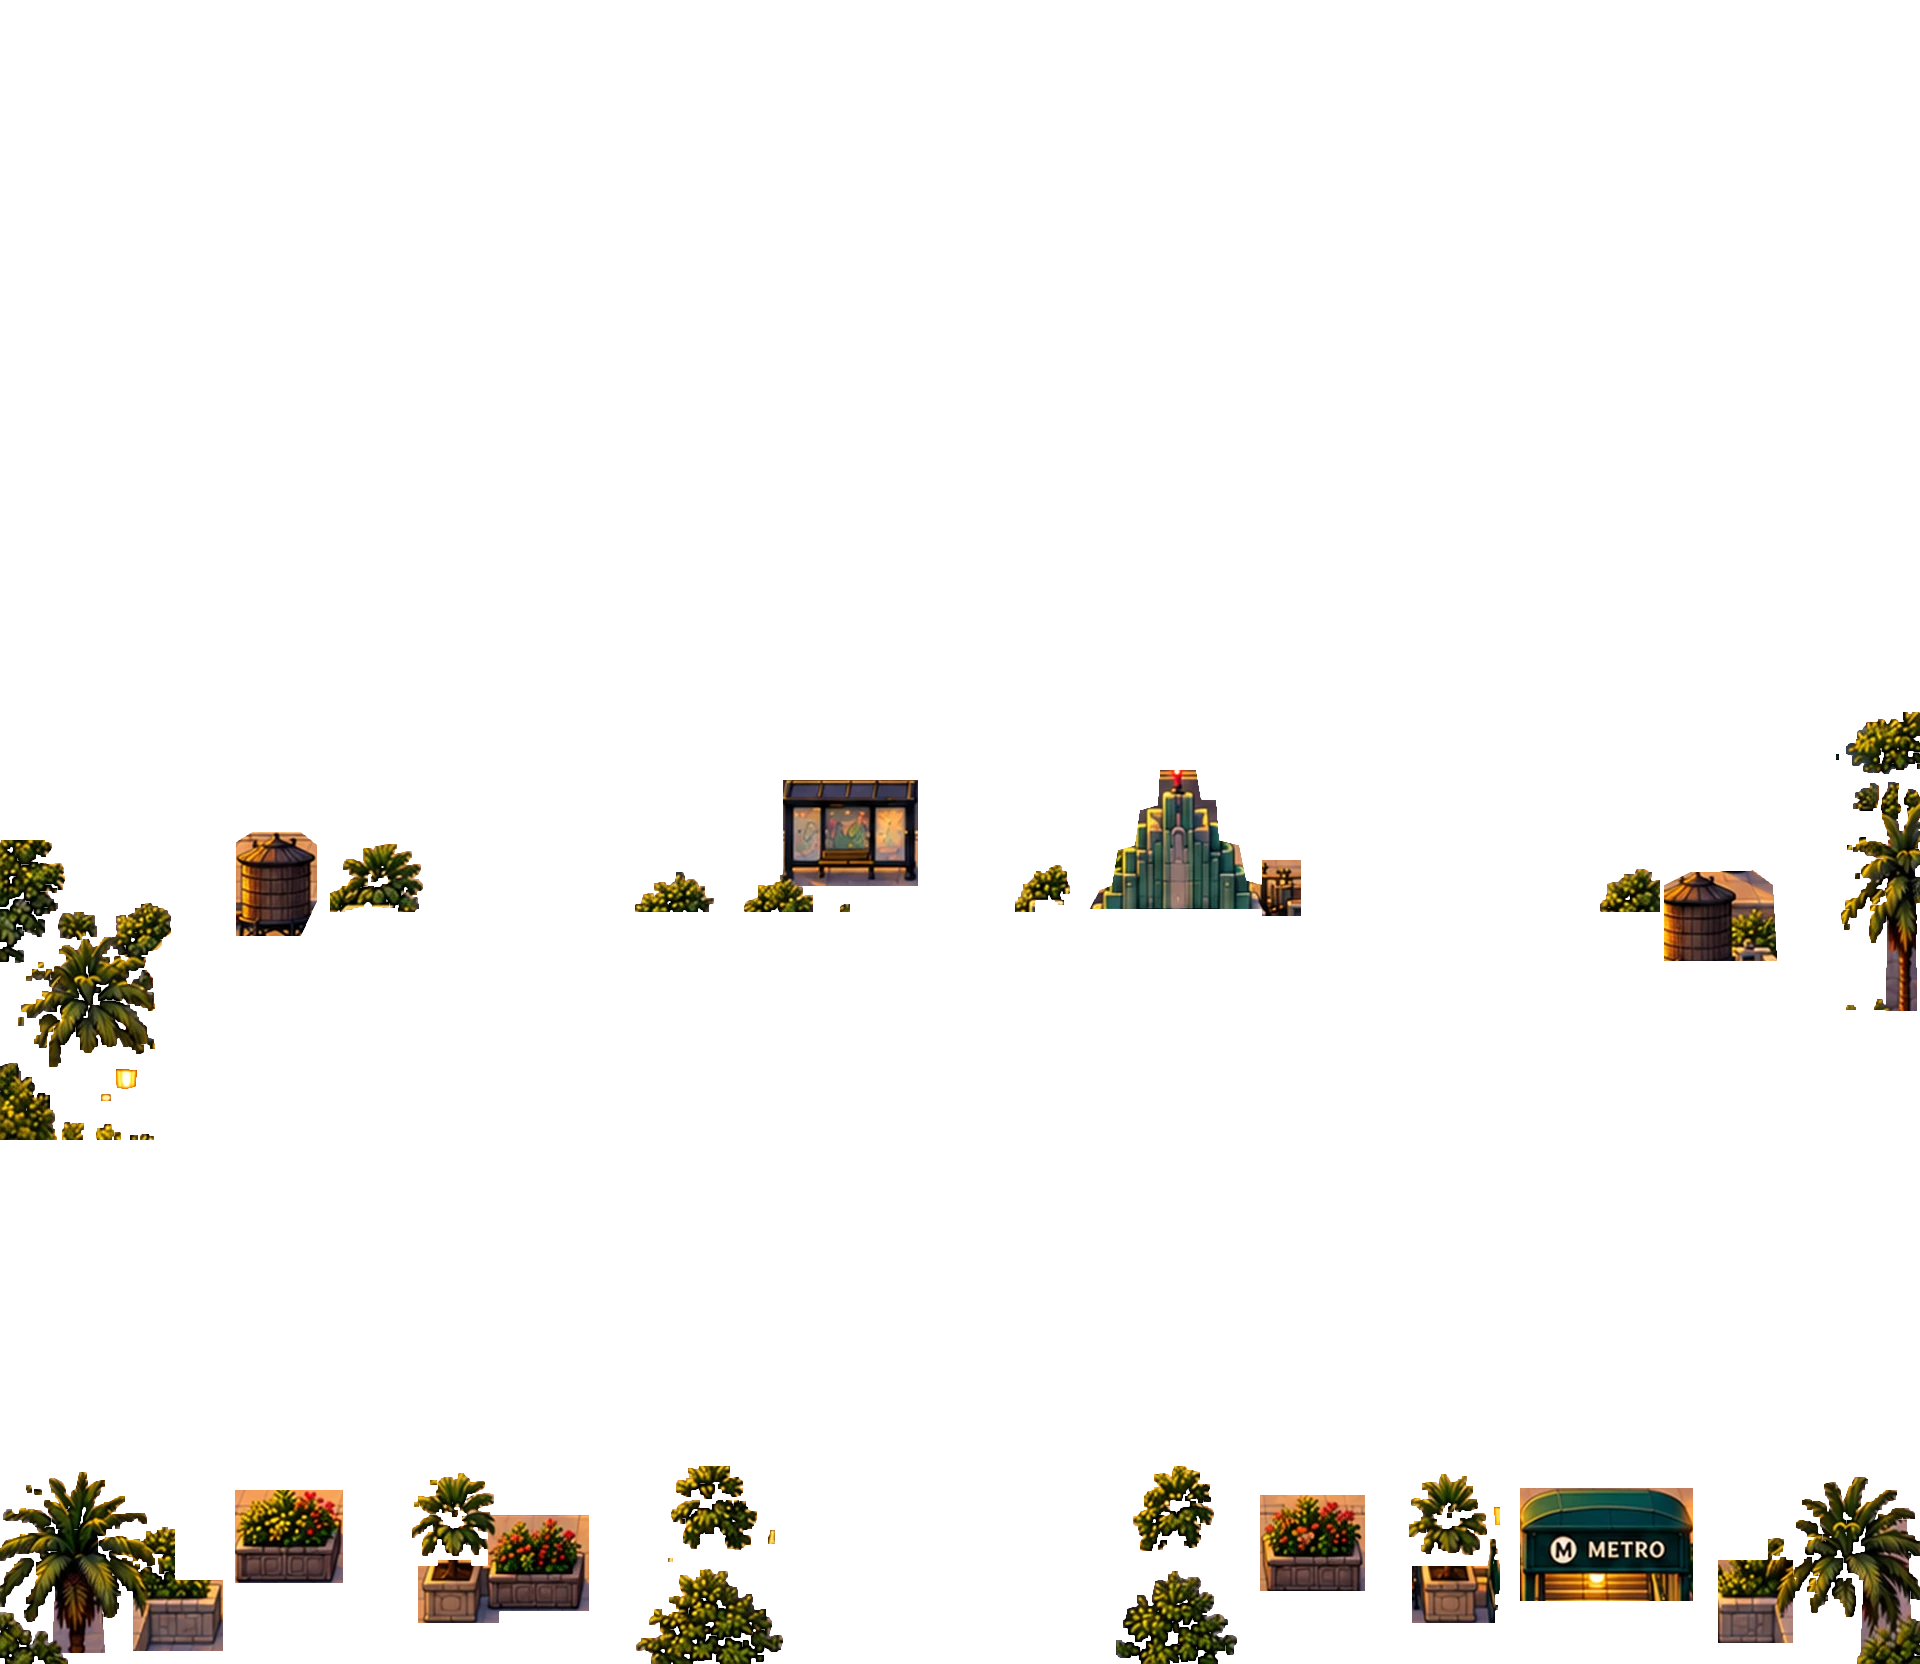
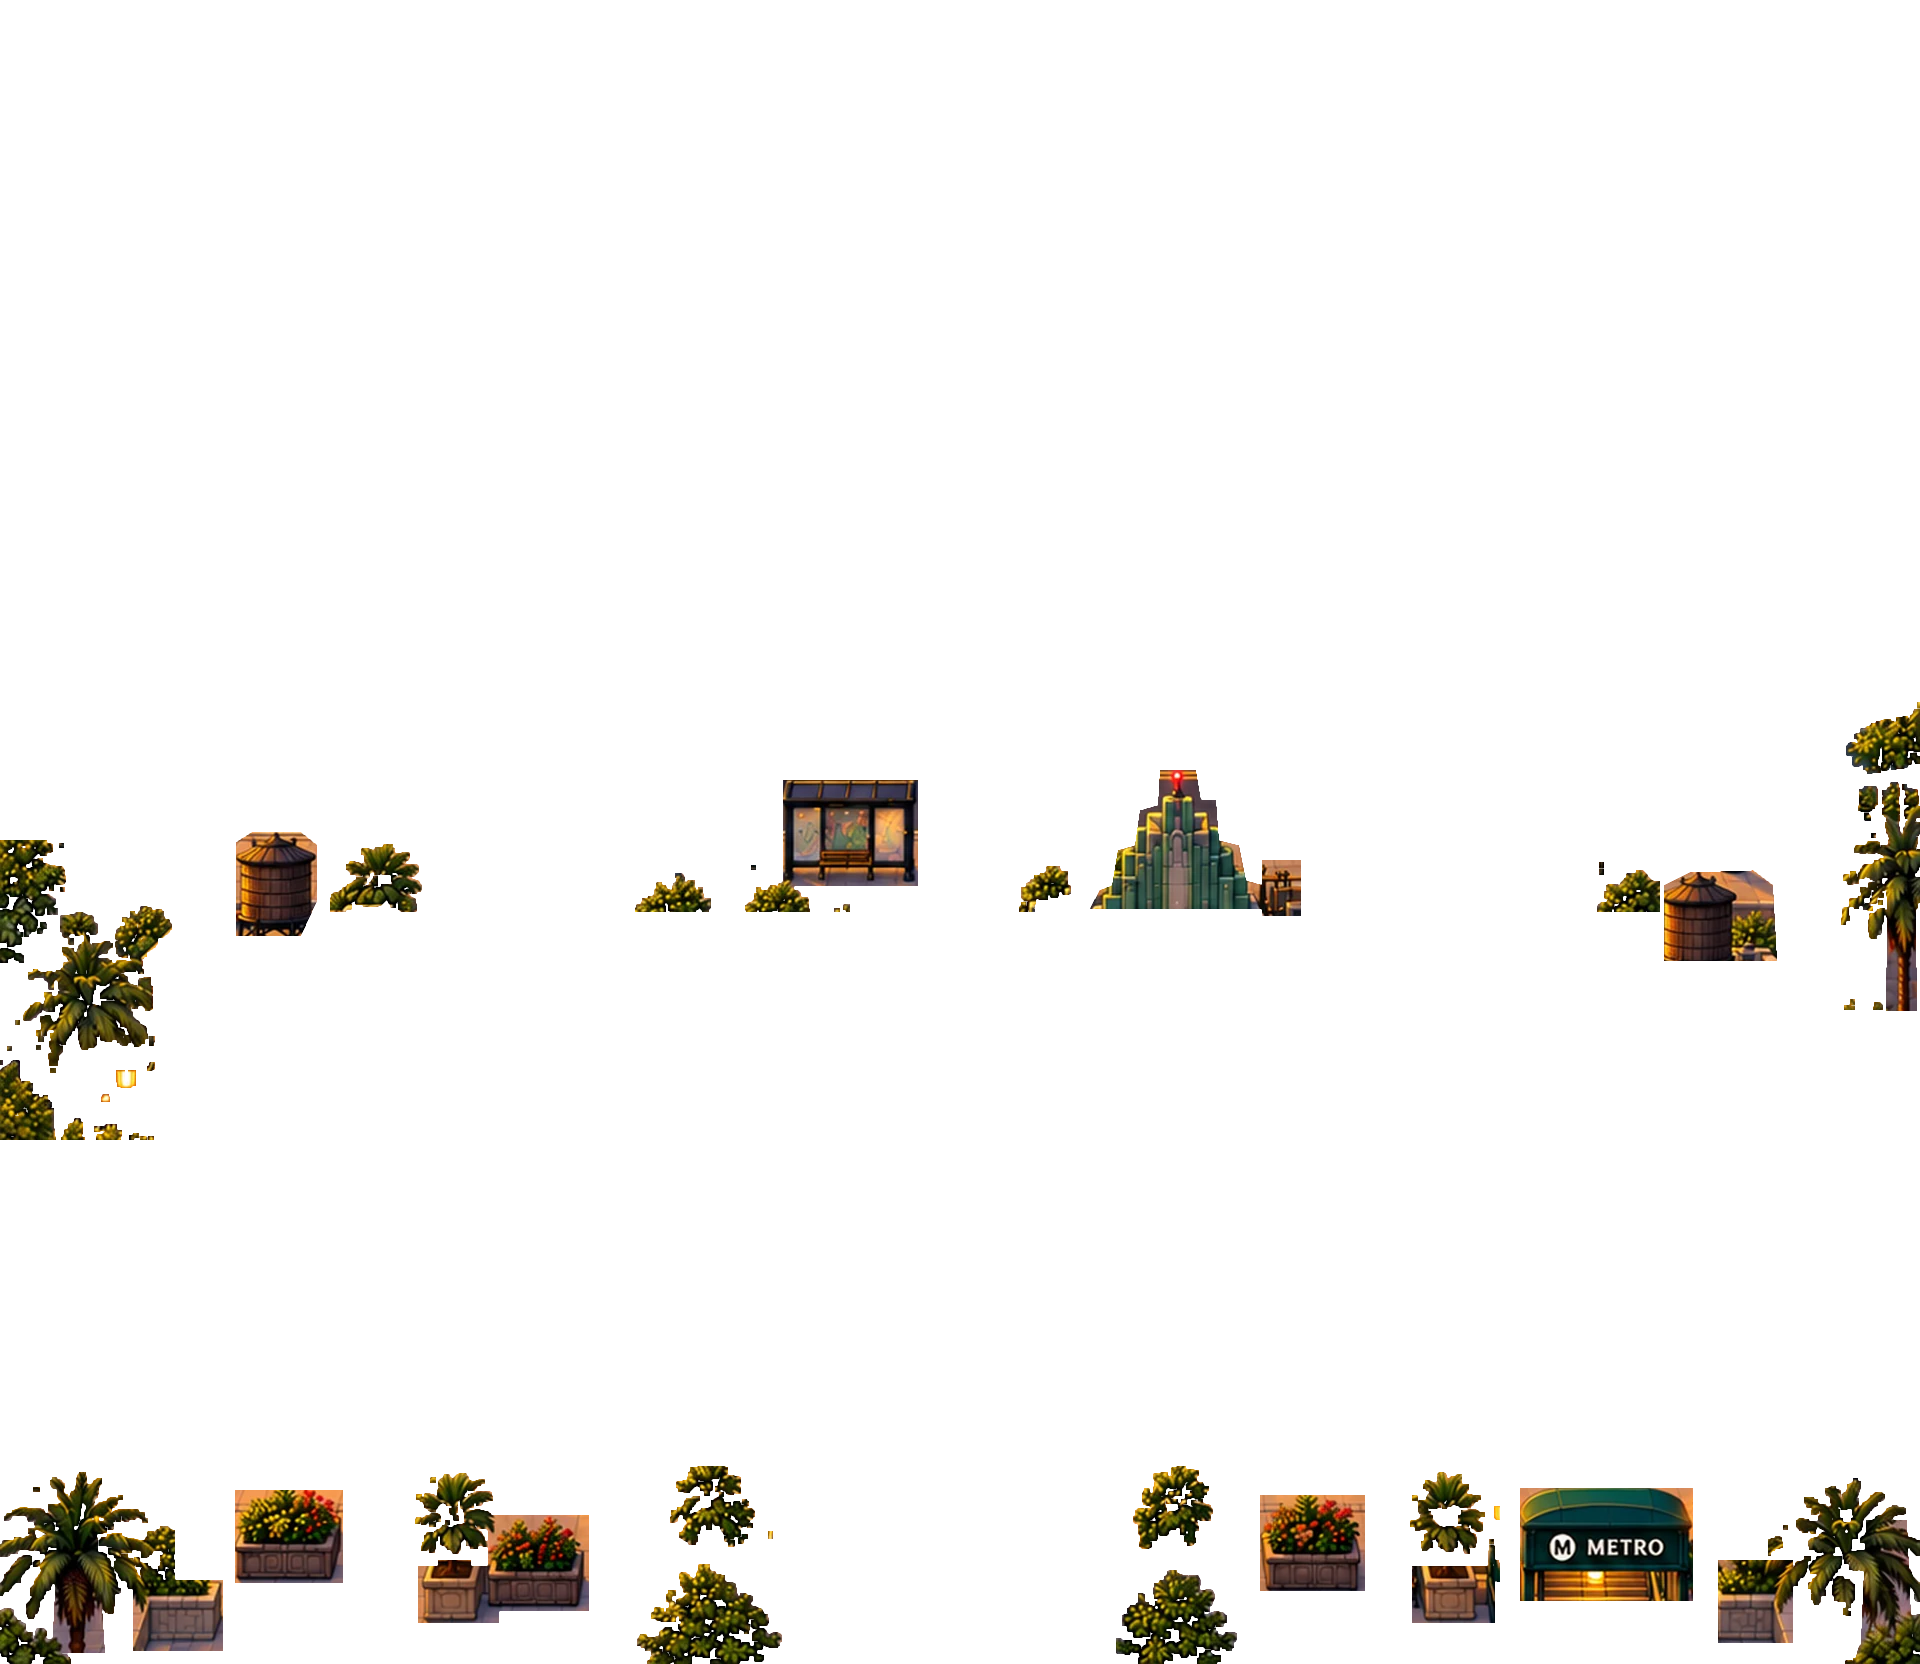
Downtown LA v4 painting: Cab Co. north, Nickel's south (behind11)
Claude-Session: https://claude.ai/code/session_01RXeukCuptzUeibLypwArCi

diff --git a/engine/plate.js b/engine/plate.js
@@ -1,7 +1,7 @@
 'use strict';
 // engine/plate.js — Painted "plate" scenes (32-bit look). A plate replaces the tile/house/object
 // drawing for one map; the tile grid stays as the invisible logic layer (collision, doors, exits, NPCs).
-const PLATES={ town:{src:'art/town.webp?v=20261030c',px:64,img:null,ready:false}, row:{src:'art/row.webp?v=20261030c',px:64,img:null,ready:false}, hollow:{src:'art/hollow.webp?v=20261030d',px:64,img:null,ready:false}, reeds:{src:'art/reeds.webp',px:64,img:null,ready:false}, amyhouse:{src:'art/amyhouse.webp?v=20261030',px:78,img:null,ready:false,square:true,actorScale:1.08}, grands:{src:'art/grands.webp?v=20261030',px:78,img:null,ready:false,square:true}, elliehouse:{src:'art/elliehouse.webp?v=20261030',px:78,img:null,ready:false,square:true,actorScale:1.98}, sundial:{src:'art/sundial.webp',px:64,img:null,ready:false}, school:{src:'art/school.webp',px:64,img:null,ready:false}, cafetorium:{src:'art/cafetorium.webp',px:64,img:null,ready:false}, readroom:{src:'art/readroom.webp',px:64,img:null,ready:false}, stacks:{src:'art/stacks.webp',px:64,img:null,ready:false}, moonclub:{src:'art/moonclub.webp',px:64,img:null,ready:false}, dome:{src:'art/dome.webp',px:64,img:null,ready:false}, gatezero:{src:'art/gatezero.webp',px:64,img:null,ready:false}, library:{src:'art/library.webp?v=20261030',px:78,img:null,ready:false,square:true}, terminal:{src:'art/terminal.webp',px:64,img:null,ready:false}, bakery:{src:'art/bakery.webp?v=20261030',px:78,img:null,ready:false,square:true}, greenhouse:{src:'art/greenhouse.webp?v=20261030',px:78,img:null,ready:false,square:true}, shop:{src:'art/shop.webp?v=20261030',px:78,img:null,ready:false,square:true}, observatory:{src:'art/observatory.webp?v=20261030',px:78,img:null,ready:false,square:true}, post:{src:'art/post.webp?v=20261030',px:78,img:null,ready:false,square:true}, tea:{src:'art/tea.webp?v=20261030',px:78,img:null,ready:false,square:true}, jpark:{src:'art/jpark.webp?v=20261029',px:64,img:null,ready:false}, griffith:{src:'art/griffith.webp',px:64,img:null,ready:false}, taxi:{src:'art/taxi.webp?v=20261030',px:78,img:null,ready:false,square:true}, blvd:{src:'art/blvd.webp?v=20261031a',px:64,img:null,ready:false} };
+const PLATES={ town:{src:'art/town.webp?v=20261030c',px:64,img:null,ready:false}, row:{src:'art/row.webp?v=20261030c',px:64,img:null,ready:false}, hollow:{src:'art/hollow.webp?v=20261030d',px:64,img:null,ready:false}, reeds:{src:'art/reeds.webp',px:64,img:null,ready:false}, amyhouse:{src:'art/amyhouse.webp?v=20261030',px:78,img:null,ready:false,square:true,actorScale:1.08}, grands:{src:'art/grands.webp?v=20261030',px:78,img:null,ready:false,square:true}, elliehouse:{src:'art/elliehouse.webp?v=20261030',px:78,img:null,ready:false,square:true,actorScale:1.98}, sundial:{src:'art/sundial.webp',px:64,img:null,ready:false}, school:{src:'art/school.webp',px:64,img:null,ready:false}, cafetorium:{src:'art/cafetorium.webp',px:64,img:null,ready:false}, readroom:{src:'art/readroom.webp',px:64,img:null,ready:false}, stacks:{src:'art/stacks.webp',px:64,img:null,ready:false}, moonclub:{src:'art/moonclub.webp',px:64,img:null,ready:false}, dome:{src:'art/dome.webp',px:64,img:null,ready:false}, gatezero:{src:'art/gatezero.webp',px:64,img:null,ready:false}, library:{src:'art/library.webp?v=20261030',px:78,img:null,ready:false,square:true}, terminal:{src:'art/terminal.webp',px:64,img:null,ready:false}, bakery:{src:'art/bakery.webp?v=20261030',px:78,img:null,ready:false,square:true}, greenhouse:{src:'art/greenhouse.webp?v=20261030',px:78,img:null,ready:false,square:true}, shop:{src:'art/shop.webp?v=20261030',px:78,img:null,ready:false,square:true}, observatory:{src:'art/observatory.webp?v=20261030',px:78,img:null,ready:false,square:true}, post:{src:'art/post.webp?v=20261030',px:78,img:null,ready:false,square:true}, tea:{src:'art/tea.webp?v=20261030',px:78,img:null,ready:false,square:true}, jpark:{src:'art/jpark.webp?v=20261029',px:64,img:null,ready:false}, griffith:{src:'art/griffith.webp',px:64,img:null,ready:false}, taxi:{src:'art/taxi.webp?v=20261030',px:78,img:null,ready:false,square:true}, blvd:{src:'art/blvd.webp?v=20261031d',px:64,img:null,ready:false} };
 PLATES.pier={src:'art/pier.webp?v=20261029',px:64,img:null,ready:false};
 PLATES.studio={src:'art/studio.webp?v=20261029',px:64,img:null,ready:false};
 PLATES.backlot={src:'art/backlot.webp?v=20261029',px:64,img:null,ready:false};
@@ -195,7 +195,7 @@ blvd:[
   // Griffith Park gate: board and both posts (Tom climbs the steps and disappears under the board)
   {x:46,y:248,w:158,h:72,base:340},{x:14,y:238,w:44,h:128,base:340},{x:198,y:222,w:40,h:130,base:340},
   // shop awnings and the Starlite marquee: anyone on the sidewalk or in a doorway is under them
-  {x:250,y:546,w:236,h:58,base:690},{x:551,y:546,w:254,h:56,base:690},{x:923,y:494,w:330,h:104,base:690},{x:1336,y:548,w:312,h:56,base:690},
+  {x:250,y:546,w:236,h:58,base:690},{x:551,y:546,w:254,h:56,base:690},{x:923,y:494,w:330,h:104,base:690},{x:1343,y:578,w:290,h:48,base:690},
   // taco truck: the sidewalk is behind it
   {pts:[[722,712],[748,692],[760,672],[790,664],[810,658],[900,657],[935,661],[943,670],[946,700],[949,745],[941,766],[900,769],[780,769],[740,765],[725,752],[722,735]],base:780},
   // sidewalk lamps (head, pole, foot) on the north curb

diff --git a/data/maps-la.js b/data/maps-la.js
@@ -72,11 +72,11 @@ const LA_HOUSES=[
   {id:'coffee',area:'blvd',name:'Golden Hour Coffee',label:'COFFEE',x:3,y:5,w:5,h:5,style:'deco',floors:3,wall:'#d9b48a',stone:'#efdcbc',roof:'#8a5a3a',awning:'#e2a24a',awning2:'#fff1d6',sign:'#3d2b26',ink:'#ffd968',icon:'cup',fire:true},
   {id:'ramen',area:'blvd',name:'Ramen Ramen',label:'RAMEN',x:8,y:5,w:5,h:5,style:'deco',floors:4,wall:'#c98f6a',stone:'#e8c8a8',roof:'#7a3a33',awning:'#b9483f',awning2:'#2c2c33',sign:'#f4ecd2',ink:'#b9483f',icon:'lantern'},
   {id:'cinema',area:'blvd',name:'The Starlite',label:'STARLITE',x:15,y:5,w:5,h:5,style:'cinema',floors:3,wall:'#e9c9a6',stone:'#f4e2c4',roof:'#a8453a',awning:'#2c2c33',awning2:'#2c2c33',sign:'#2c2c33',ink:'#ffd968',icon:'star'},
-  {id:'nickels',area:'blvd',name:"Nickel's",label:'SHOP',x:20,y:5,w:5,h:5,style:'deco',floors:2,wall:'#b8c4b0',stone:'#e2e8d8',roof:'#2f6f73',awning:'#3a9ca0',awning2:'#fbefd2',shop:true,keeper:'Nickel',icon:'coin',fire:true},
+  {id:'nickels',area:'blvd',name:"Nickel's",label:'SHOP',x:23,y:17,w:5,h:5,style:'deco',floors:2,wall:'#b8c4b0',stone:'#e2e8d8',roof:'#2f6f73',awning:'#3a9ca0',awning2:'#fbefd2',shop:true,keeper:'Nickel',icon:'coin',fire:true},
   {id:'wardrobe',area:'blvd',name:'Backlot Wardrobe',label:'WARDROBE',x:2,y:17,w:5,h:5,style:'loft',floors:3,wall:'#a0523a',stone:'#d9b49a',roof:'#5a3a2a',awning:'#8a6aa0',awning2:'#f3eaf6',sign:'#2c2c33',ink:'#e3c6f0',icon:'hanger',ghost:'GARMENT CO.'},
   {id:'lofts',area:'blvd',name:"TNB's Loft",label:'LOFTS',x:9,y:17,w:5,h:5,style:'loft',floors:3,wall:'#8a5a44',stone:'#d9c0a0',roof:'#4a3a32',awning:'#2c2c33',awning2:'#2c2c33',sign:'#2c2c33',ink:'#f4ecd2',home:true,ghost:'FURNITURE'},
   {id:'tower',area:'blvd',name:'The Grand Tower',label:'GRAND',x:16,y:17,w:5,h:5,style:'tower',floors:9,wall:'#6f9fc4',stone:'#c9d6de',roof:'#3f5a74',home:true},
-  {id:'lacab',area:'blvd',name:'Angel City Cab Co.',label:'CABS',x:23,y:17,w:5,h:5,style:'deco',floors:1,wall:'#f4e6c8',stone:'#fff4dc',roof:'#d9a43a',awning:'#2c2c33',awning2:'#f2c75a',taxi:true,icon:'cab'},
+  {id:'lacab',area:'blvd',name:'Angel City Cab Co.',label:'CABS',x:20,y:5,w:5,h:5,style:'deco',floors:1,wall:'#f4e6c8',stone:'#fff4dc',roof:'#d9a43a',awning:'#2c2c33',awning2:'#f2c75a',taxi:true,icon:'cab'},
   {id:'creole',area:'jpark',name:"Odette's Creole Kitchen",label:'CREOLE',x:3,y:3,w:5,h:4,style:'strip',wall:'#e8c060',roof:'#7a3a5a',awning:'#4a7a3a',awning2:'#f4e6c0',sign:'#4a2a4a',ink:'#ffd968',icon:'pot',mural:true},
   {id:'pupuseria',area:'jpark',name:'Pupuseria La Ceiba',label:'PUPUSAS',x:8,y:3,w:5,h:4,style:'strip',wall:'#f2e6d0',roof:'#2f6fb3',awning:'#2f6fb3',awning2:'#ffffff',sign:'#2f6fb3',ink:'#ffffff',icon:'leaf',grille:true},
   {id:'boards',area:'jpark',name:'Board Room',label:'SKATE',x:16,y:3,w:5,h:4,style:'strip',wall:'#d6e6ec',roof:'#2f4e6a',awning:'#e2793a',awning2:'#2c2c33',sign:'#2c2c33',ink:'#f2a05a',icon:'board',mural:true},
@@ -156,7 +156,7 @@ const LA_AREAS=[
         restoreText:'Al pastor for everyone. Everybody is completely restored. Tom tips well.'}],
       ['bench',12,13,2,1,'Bus bench','An ad for a lawyer covers the whole bench. He\'s smiling at you. He\'s always smiling at you.'],
       ['metro',25,25,1,1,'Metro stairs','Down to the train. TNB knows every line, every stop, and which car has the best seats.'],
-      ['sign',23,9,1,1,'Shop sign',"NICKEL'S. Penny's cousin. Gear, snacks, and things that go POP.",{shopSign:true}],
+      ['sign',24,21,1,1,'Shop sign',"NICKEL'S. Penny's cousin. Gear, snacks, and things that go POP.",{shopSign:true}],
       ['lacab',27,22,1,1,'Cab 8','Angel City Cab Co., cab 8. It\'s spotless. Sol details it twice a day. Sol has time.'],
       ['planter',21,9,1,1,'Bird of paradise','A bird of paradise in a pot. It looks like it wants to leave.',{dry:true}]],
     npcs:[

diff --git a/index.html b/index.html
@@ -1230,7 +1230,7 @@ document.addEventListener('click',function(e){var n=e.target.closest&&e.target.c
 <script src="data/maps-ch20.js?v=walk1"></script>
 <script src="engine/world.js?v=gone1"></script>
 <script src="data/party.js?v=rose1"></script>
-<script src="data/maps-la.js?v=dtla8"></script>
+<script src="data/maps-la.js?v=dtla9"></script>
 <script src="data/maps-ch12.js"></script>
 <script src="engine/la.js"></script>
 <script src="engine/menu.js?v=lv1"></script>
@@ -1439,7 +1439,7 @@ document.addEventListener('click',function(e){var n=e.target.closest&&e.target.c
 <script src="engine/club-render.js"></script>
 <script src="engine/terminal-render.js"></script>
 <script src="engine/infinity-render.js"></script>
-<script src="engine/plate.js?v=behind10"></script>
+<script src="engine/plate.js?v=behind11"></script>
 <script src="engine/draw.js?v=behind1"></script>
 <script src="engine/intro.js?v=tom4"></script>
 <script src="data/flight-art.js?v=fl2"></script>

diff --git a/tools/blvd_test.py b/tools/blvd_test.py
@@ -53,7 +53,7 @@ with sync_playwright() as pw:
     pg.set_viewport_size({'width':860,'height':430}); pg.wait_for_timeout(600); stand(pg,17,10,'up'); shot(pg,'landscape')
     pg.set_viewport_size({'width':430,'height':860}); pg.wait_for_timeout(600)
     # every door: walk up from the pad, land in the right building, walk back out
-    pads={'coffee':(5,10),'ramen':(10,10),'cinema':(17,10),'nickels':(22,10),'wardrobe':(4,22),'lofts':(11,22),'tower':(18,22),'lacab':(25,22)}
+    pads={'coffee':(5,10),'ramen':(10,10),'cinema':(17,10),'nickels':(25,22),'wardrobe':(4,22),'lofts':(11,22),'tower':(18,22),'lacab':(22,10)}
     for hid,(px,py) in pads.items():
         pg.evaluate("()=>window.__LE.go('blvd')"); pg.wait_for_timeout(900); skip_intro(pg)
         stand(pg,px,py,'up'); pg.keyboard.down('ArrowUp'); pg.wait_for_timeout(700); pg.keyboard.up('ArrowUp'); pg.wait_for_timeout(1600); skip_intro(pg)
@@ -78,7 +78,7 @@ with sync_playwright() as pw:
     print('after studio exit:',pg.evaluate("()=>[currentMap.id,player.x,player.y,worlds.blvd.solid[player.y*worlds.blvd.w+player.x]]"))
     check('studio brings Tom back to the east road',pg.evaluate("()=>currentMap.id==='blvd'&&player.x>=24&&worlds.blvd.solid[player.y*worlds.blvd.w+player.x]===0"))
     # A on a prop opens its text
-    for nm,(x,y,d) in {'Taco truck':(12,10,'down'),'Metro stairs':(25,24,'down'),'Cab 8':(26,22,'right'),'Bus bench':(12,12,'down'),'Shop sign':(23,10,'up')}.items():
+    for nm,(x,y,d) in {'Taco truck':(12,10,'down'),'Metro stairs':(25,24,'down'),'Cab 8':(26,22,'right'),'Bus bench':(12,12,'down'),'Shop sign':(24,22,'up')}.items():
         pg.evaluate("()=>window.__LE.go('blvd')"); pg.wait_for_timeout(700); skip_intro(pg)
         stand(pg,x,y,d); pg.keyboard.press('Enter'); pg.wait_for_timeout(500)
         got=pg.evaluate("()=>dialog.active||(typeof choice!=='undefined'&&!!choice&&choice.active)||!!document.querySelector('#toast:not([hidden])')")

diff --git a/tools/blvd_behind_shots.py b/tools/blvd_behind_shots.py
@@ -34,7 +34,7 @@ REACH="""()=>{ const m=worlds.blvd, W=m.w, H=m.h, wk=(x,y)=>x>=0&&y>=0&&x<W&&y<H
   const arrivals=[[24,22],[14,10],[15,10],[28,11],[28,12],[1,5],[2,5],[20,22],[13,24],[16,24]].filter(([x,y])=>!seen.has(x+','+y)).map(c=>c.join(','));
   return {badObjects:bad,npcBad,arrivals,houses:m.houses.map(h=>[h.id,h.door.x,h.door.y])}; }"""
 
-SPOTS={'lane':(13,12,'right'),'shelter':(14,13,'up'),'metro':(25,24,'down'),'edge':(28,12,'right'),'props':(24,13,'up'),'leftedge':(1,13,'up')}
+SPOTS={'cabN':(22,10,'up'),'nickS':(25,22,'up')}
 with sync_playwright() as pw:
     kw={'args':['--headless=new','--no-proxy-server']}
     if os.environ.get('CHROMIUM'): kw['executable_path']=os.environ['CHROMIUM']

diff --git a/docs/CHANGES.md b/docs/CHANGES.md
@@ -1,3 +1,9 @@
+## 2026-10-31 (day, 3): Downtown LA v4 painting installed (Cab Co. north, Nickel's south)
+
+- Tom sent a new Downtown LA painting (`docs/reference/blvd_v4_from_tom.png`, art `?v=20261031d`): the same street, with Angel City Cab Co. now on the north row (door 22,9) and Nickel's on the south row (door 25,21). Walk map, exits, walkways and cutouts are unchanged; only the two buildings swapped places in `data/maps-la.js` (`nickels` x23,y17; `lacab` x20,y5).
+- Nickel's shop sign object moved to the south front (24,21), touched from (24,22). The north gold awning cutout in `PLATE_BEHIND.blvd` now matches the Cab Co. awning. Cutout layer rebuilt (`tools/make_blvd_fg.py`).
+- Cab arrivals (flights, `arriveAt` the cab) now land at the north door (22,9). `tools/blvd_test.py` updated; reach 0 fails; blvd_test and smoke pass. Not played on phone.
+
 ## 2026-10-31 (morning, 40): Battle Lab EXIT button at the top of the battle (`labx1`)
 
 - Tom (10:34): in Battle Lab fights only, an exit button at the top of the screen returns to boss select. EXIT now sits left of 1x and AUTO on the battle picture (portrait and landscape). One tap ends the fight right away, even mid-animation (clears the step queue, stops speech) and opens the lab list, same path as Exit Lab in the bag. Story fights never show it.
